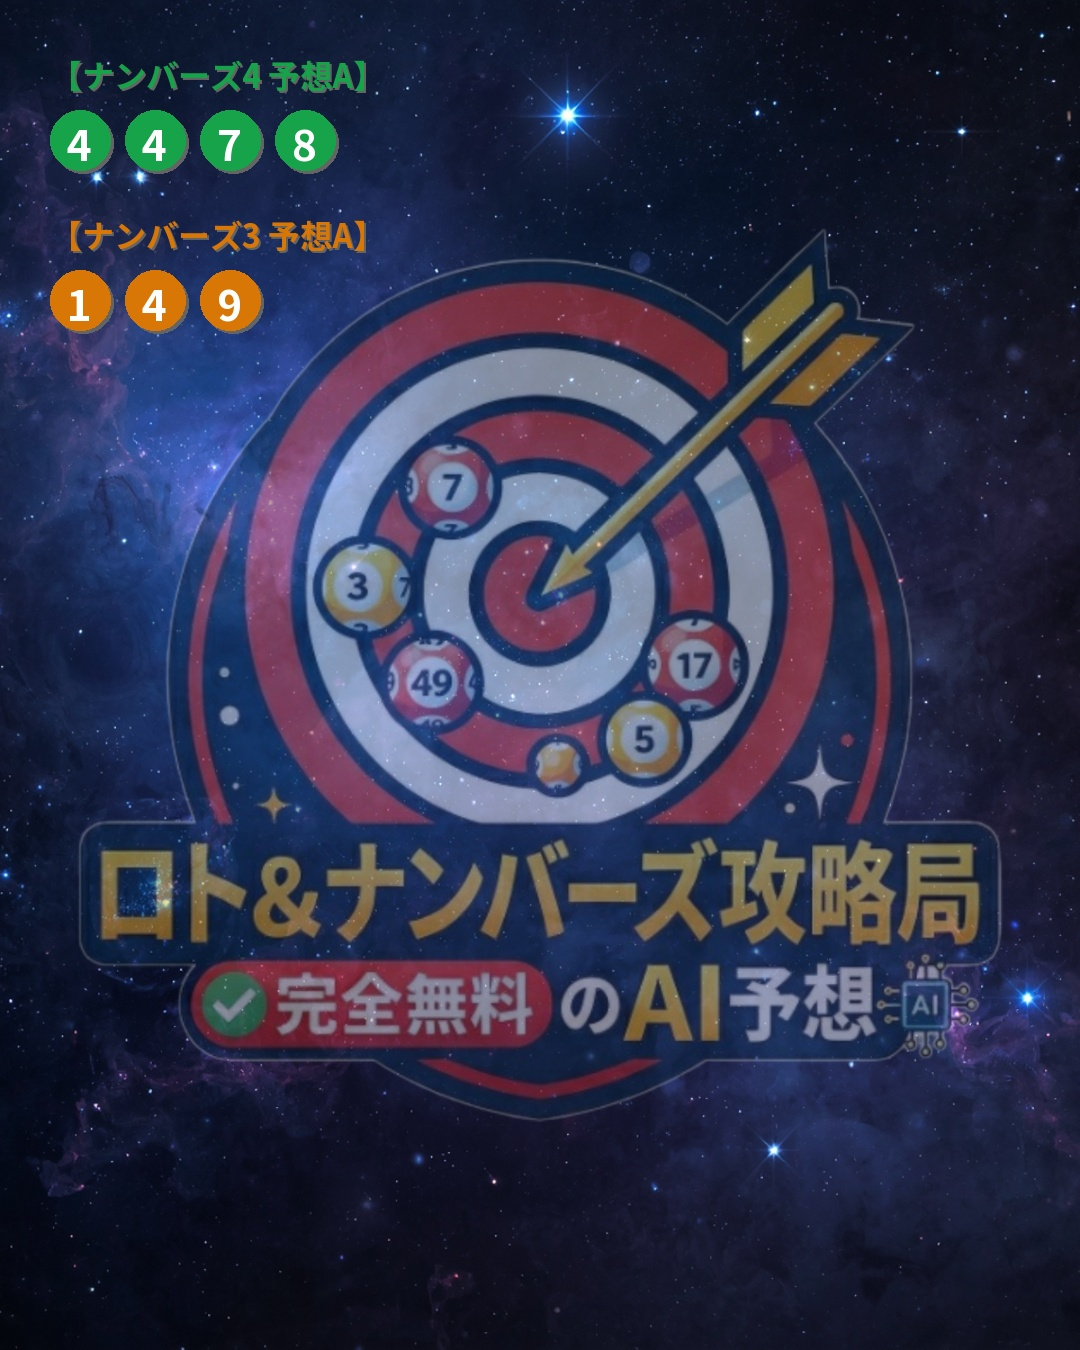
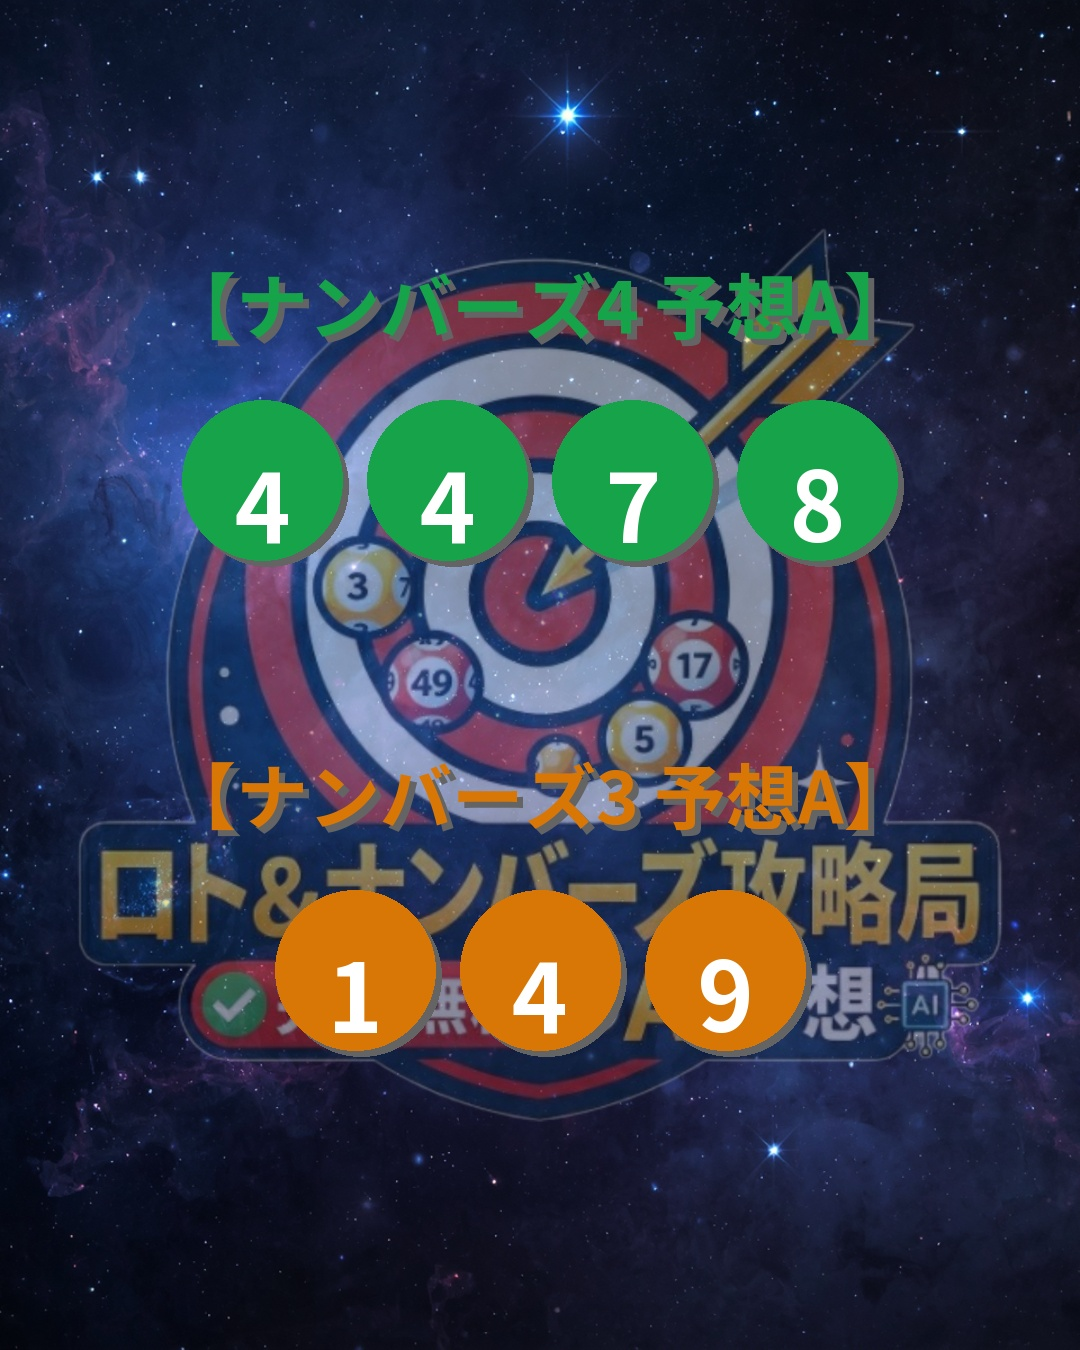
OK

Changed region(s): [[0.0306, 0.0311, 0.8556, 0.4356], [0.2444, 0.6533, 0.7639, 0.8089], [0.1833, 0.56, 0.825, 0.6222]]

diff --git a/update_loto6.py b/update_loto6.py
@@ -245,10 +245,12 @@ def upload_image_to_imgbb(image_path):
     # =========================================================
 
 def create_result_image(loto6_nums, carryover_info, base_image_path, output_image_path):
-    """ロト6専用：ボール風デザイン＆シャドウ付きで画像を描画する職人"""
-    print("🎨 ロト6専用の予想画像を生成中...")
+    """ロト6専用：1080x1350の大画面に合わせて、文字を大きく中央揃えで描画する職人"""
+    print("🎨 ロト6専用の予想画像を生成中（中央揃え・大画面版）...")
     try:
+        # 1. ベース（背景）となる画像を開く
         img = Image.open(base_image_path)
+        W, H = img.size # 画像の実際の幅と高さを取得 (1080x1350を想定)
     except FileNotFoundError:
         print(f"❌ 背景画像({base_image_path})が見つかりません！")
         return False
@@ -258,56 +260,87 @@ def create_result_image(loto6_nums, carryover_info, base_image_path, output_imag
     # 日本語フォントの準備
     font_path = "NotoSansJP-Bold.ttf"
     if not os.path.exists(font_path):
-        font_url = "https://raw.githubusercontent.com/infofintech/typography/main/NotoSansJP-Bold.ttf"
+        font_url = "https://github.com/google/fonts/raw/main/ofl/notosansjp/static/NotoSansJP-Bold.ttf"
         urllib.request.urlretrieve(font_url, font_path)
 
-    # フォントサイズの設定（ロト6は6個なので、ロト7より少し大きくできます）
-    font_title = ImageFont.truetype(font_path, 34)
-    font_num = ImageFont.truetype(font_path, 38)
-    font_carry = ImageFont.truetype(font_path, 30)
-
-    # --- デザイン設定 ---
-    start_x = 50        
-    current_y = 60      
+    # --- デザイン設定 (1080x1350用に最適化) ---
     shadow_color = (100, 100, 100)  # 影（グレー）
     white = (255, 255, 255)         # 文字（白）
-    
-    # ロト6のテーマカラー設定
     title_color = (30, 58, 138)  # タイトルは濃いネイビー
     ball_color = (37, 99, 235)   # ボールは鮮やかなブルー（ロト6風）
     carry_color = (220, 38, 38)  # キャリーオーバーは目立つ赤！
+
+    # ボールの設定 (1080pxの幅に6個収まるように、ロト7より大きく！)
+    ball_dia = 140  # ボールの直径
+    ball_space = 25 # ボール間のスペース
+    shadow_offset = 6 # 影のズレ量
+
+    # フォントサイズの設定
+    font_title = ImageFont.truetype(font_path, 90)
+    font_num = ImageFont.truetype(font_path, 85) # ボールが大きいので数字もサイズアップ
+    font_carry = ImageFont.truetype(font_path, 65)
+
+    # 全体の上下バランスを見て、描画開始Y位置を決める
+    current_y = 400 
 
     # ------------------------------------------------
     # 描画1：タイトル
     # ------------------------------------------------
     title = "【ロト6 最新AI予想 A】"
-    draw.text((start_x + 2, current_y + 2), title, font=font_title, fill=shadow_color)
-    draw.text((start_x, current_y), title, font=font_title, fill=title_color)
     
+    # タイトルの中央位置を計算
+    left, top, right, bottom = draw.textbbox((0, 0), title, font=font_title)
+    text_w = right - left
+    title_x = (W - text_w) / 2
+    
+    # タイトルの影と本体を描画
+    draw.text((title_x + shadow_offset, current_y + shadow_offset), title, font=font_title, fill=shadow_color)
+    draw.text((title_x, current_y), title, font=font_title, fill=title_color)
+    
+    current_y += (bottom - top) + 100 # ボール列との間隔
+
     # ------------------------------------------------
     # 描画2：予想番号のボール（6個）
     # ------------------------------------------------
-    current_y += 65 
-    ball_x = start_x
+    # ★ボール列全体の中央位置を計算
+    total_ball_w = (ball_dia * 6) + (ball_space * 5)
+    ball_x = (W - total_ball_w) / 2 # 列の開始X位置
+
     for digit in loto6_nums:
-        # ボールの影（60x60の円）
-        draw.ellipse([ball_x + 3, current_y + 3, ball_x + 60 + 3, current_y + 60 + 3], fill=shadow_color)
-        # ボール本体
-        draw.ellipse([ball_x, current_y, ball_x + 60, current_y + 60], fill=ball_color)
-        # 数字（ボールの真ん中に来るように微調整）
-        draw.text((ball_x + 10, current_y + 5), digit, font=font_num, fill=white)
-        ball_x += 70 # 次のボールへの間隔（ロト7より少し広め）
+        # ボールの影を描画
+        draw.ellipse([ball_x + shadow_offset, current_y + shadow_offset, ball_x + ball_dia + shadow_offset, current_y + ball_dia + shadow_offset], fill=shadow_color)
+        # ボール本体を描画
+        draw.ellipse([ball_x, current_y, ball_x + ball_dia, current_y + ball_dia], fill=ball_color)
+        
+        # ★数字がボールのド真ん中に来るように計算
+        left, top, right, bottom = draw.textbbox((0, 0), digit, font=font_num)
+        num_w = right - left
+        num_h = bottom - top
+        num_x = ball_x + (ball_dia - num_w) / 2
+        num_y = current_y + (ball_dia - num_h) / 2 - 12 # 縦位置の微調整
+
+        # 数字をボールの中心に描画
+        draw.text((num_x, num_y), digit, font=font_num, fill=white)
+        ball_x += ball_dia + ball_space
 
     # ------------------------------------------------
     # 描画3：キャリーオーバー（発生時のみ出現）
     # ------------------------------------------------
     if carryover_info:
-        current_y += 90 # ボールの下に移動
-        draw.text((start_x + 2, current_y + 2), carryover_info, font=font_carry, fill=shadow_color)
-        draw.text((start_x, current_y), carryover_info, font=font_carry, fill=carry_color)
+        current_y += ball_dia + 150 # ボールの下に移動
+        
+        # キャリーオーバー文字の中央位置を計算
+        left, top, right, bottom = draw.textbbox((0, 0), carryover_info, font=font_carry)
+        carry_w = right - left
+        carry_x = (W - carry_w) / 2
+        
+        # 影と本体を描画
+        draw.text((carry_x + shadow_offset, current_y + shadow_offset), carryover_info, font=font_carry, fill=shadow_color)
+        draw.text((carry_x, current_y), carryover_info, font=font_carry, fill=carry_color)
 
+    # --- 共通処理 ---
     # 完成した画像を保存（Instagram対応のためJPEGに変換して保存！）
-    img = img.convert("RGB") # 背景が透過PNGだった場合のエラーを防止
+    img = img.convert("RGB") 
     img.save(output_image_path, "JPEG", quality=95)
     print(f"✅ 画像の生成が完了しました！: {output_image_path}")
     return True
@@ -976,6 +1009,7 @@ def build_html():
     if send_flag and msg:
         # post_to_x(msg)
         post_to_line(msg)
+        post_to_threads(msg)
         print(f"✅ ロト6の配信条件に合致したため実行しました。")
 
         # ----------------------------------------------------

diff --git a/update_loto7.py b/update_loto7.py
@@ -223,10 +223,12 @@ def upload_image_to_imgbb(image_path):
     # =========================================================
 
 def create_result_image(loto7_nums, carryover_info, base_image_path, output_image_path):
-    """ロト7専用：ボール風デザイン＆シャドウ付きで画像を描画する職人"""
-    print("🎨 ロト7専用の予想画像を生成中...")
+    """ロト7専用：1080x1350の大画面に合わせて、文字を大きく中央揃えで描画する職人"""
+    print("🎨 ロト7専用の予想画像を生成中（中央揃え・大画面版）...")
     try:
+        # 1. ベース（背景）となる画像を開く
         img = Image.open(base_image_path)
+        W, H = img.size # 画像の実際の幅と高さを取得 (1080x1350を想定)
     except FileNotFoundError:
         print(f"❌ 背景画像({base_image_path})が見つかりません！")
         return False
@@ -236,56 +238,87 @@ def create_result_image(loto7_nums, carryover_info, base_image_path, output_imag
     # 日本語フォントの準備
     font_path = "NotoSansJP-Bold.ttf"
     if not os.path.exists(font_path):
-        font_url = "https://raw.githubusercontent.com/infofintech/typography/main/NotoSansJP-Bold.ttf"
+        font_url = "https://github.com/google/fonts/raw/main/ofl/notosansjp/static/NotoSansJP-Bold.ttf"
         urllib.request.urlretrieve(font_url, font_path)
 
-    # フォントサイズの設定（タイトル、数字、キャリーオーバー用）
-    font_title = ImageFont.truetype(font_path, 34)
-    font_num = ImageFont.truetype(font_path, 34) # 7個入るように少し調整
-    font_carry = ImageFont.truetype(font_path, 30)
-
-    # --- デザイン設定 ---
-    start_x = 50        
-    current_y = 60      
+    # --- デザイン設定 (1080x1350用に最適化) ---
     shadow_color = (100, 100, 100)  # 影（グレー）
     white = (255, 255, 255)         # 文字（白）
-    
-    # ロト7のテーマカラー設定
-    title_color = (30, 58, 138)  # タイトルは濃いネイビー（HTMLサイト風）
+    title_color = (30, 58, 138)  # タイトルは濃いネイビー
     ball_color = (217, 119, 6)   # ボールはゴールド/オレンジ
     carry_color = (220, 38, 38)  # キャリーオーバーは目立つ赤！
+
+    # ボールの設定 (1080pxの幅に7個収まる最大サイズ)
+    ball_dia = 120  # ボールの直径
+    ball_space = 20 # ボール間のスペース
+    shadow_offset = 6 # 影のズレ量
+
+    # フォントサイズの設定
+    font_title = ImageFont.truetype(font_path, 90)
+    font_num = ImageFont.truetype(font_path, 75)
+    font_carry = ImageFont.truetype(font_path, 65)
+
+    # 全体の上下バランスを見て、描画開始Y位置を決める
+    current_y = 400 
 
     # ------------------------------------------------
     # 描画1：タイトル
     # ------------------------------------------------
     title = "【ロト7 最新AI予想 A】"
-    draw.text((start_x + 2, current_y + 2), title, font=font_title, fill=shadow_color)
-    draw.text((start_x, current_y), title, font=font_title, fill=title_color)
     
+    # タイトルの中央位置を計算
+    left, top, right, bottom = draw.textbbox((0, 0), title, font=font_title)
+    text_w = right - left
+    title_x = (W - text_w) / 2
+    
+    # タイトルの影と本体を描画
+    draw.text((title_x + shadow_offset, current_y + shadow_offset), title, font=font_title, fill=shadow_color)
+    draw.text((title_x, current_y), title, font=font_title, fill=title_color)
+    
+    current_y += (bottom - top) + 100 # ボール列との間隔
+
     # ------------------------------------------------
     # 描画2：予想番号のボール（7個）
     # ------------------------------------------------
-    current_y += 65 
-    ball_x = start_x
+    # ★ボール列全体の中央位置を計算
+    total_ball_w = (ball_dia * 7) + (ball_space * 6)
+    ball_x = (W - total_ball_w) / 2 # 列の開始X位置
+
     for digit in loto7_nums:
-        # ボールの影（55x55の円）
-        draw.ellipse([ball_x + 3, current_y + 3, ball_x + 55 + 3, current_y + 55 + 3], fill=shadow_color)
-        # ボール本体
-        draw.ellipse([ball_x, current_y, ball_x + 55, current_y + 55], fill=ball_color)
-        # 数字（ボールの真ん中に来るように微調整）
-        draw.text((ball_x + 10, current_y + 5), digit, font=font_num, fill=white)
-        ball_x += 65 # 次のボールへの間隔
+        # ボールの影を描画
+        draw.ellipse([ball_x + shadow_offset, current_y + shadow_offset, ball_x + ball_dia + shadow_offset, current_y + ball_dia + shadow_offset], fill=shadow_color)
+        # ボール本体を描画
+        draw.ellipse([ball_x, current_y, ball_x + ball_dia, current_y + ball_dia], fill=ball_color)
+        
+        # ★数字がボールのド真ん中に来るように計算
+        left, top, right, bottom = draw.textbbox((0, 0), digit, font=font_num)
+        num_w = right - left
+        num_h = bottom - top
+        num_x = ball_x + (ball_dia - num_w) / 2
+        num_y = current_y + (ball_dia - num_h) / 2 - 10 # 縦位置の微調整
+
+        # 数字をボールの中心に描画
+        draw.text((num_x, num_y), digit, font=font_num, fill=white)
+        ball_x += ball_dia + ball_space
 
     # ------------------------------------------------
     # 描画3：キャリーオーバー（発生時のみ出現）
     # ------------------------------------------------
     if carryover_info:
-        current_y += 90 # ボールの下に移動
-        draw.text((start_x + 2, current_y + 2), carryover_info, font=font_carry, fill=shadow_color)
-        draw.text((start_x, current_y), carryover_info, font=font_carry, fill=carry_color)
+        current_y += ball_dia + 150 # ボールの下に移動
+        
+        # キャリーオーバー文字の中央位置を計算
+        left, top, right, bottom = draw.textbbox((0, 0), carryover_info, font=font_carry)
+        carry_w = right - left
+        carry_x = (W - carry_w) / 2
+        
+        # 影と本体を描画
+        draw.text((carry_x + shadow_offset, current_y + shadow_offset), carryover_info, font=font_carry, fill=shadow_color)
+        draw.text((carry_x, current_y), carryover_info, font=font_carry, fill=carry_color)
 
+    # --- 共通処理 ---
     # 完成した画像を保存（Instagram対応のためJPEGに変換して保存！）
-    img = img.convert("RGB") # 背景が透過PNGだった場合のエラーを防止
+    img = img.convert("RGB") 
     img.save(output_image_path, "JPEG", quality=95)
     print(f"✅ 画像の生成が完了しました！: {output_image_path}")
     return True
@@ -938,6 +971,7 @@ def build_html():
     if send_flag and msg:
         # post_to_x(msg)
         post_to_line(msg)
+        post_to_threads(msg)
         print(f"✅ ロト7の配信条件に合致したため実行しました。")
 
         # ----------------------------------------------------

diff --git a/update_numbers.py b/update_numbers.py
@@ -225,7 +225,7 @@ def create_result_image(n4_text, n3_text, base_image_path, output_image_path):
     shadow_offset = 6 # 影のズレ量
 
     # フォントサイズの設定（見やすく大きく！）
-    font_title = ImageFont.truetype(font_path, 72)
+    font_title = ImageFont.truetype(font_path, 90)
     font_num = ImageFont.truetype(font_path, 95)
 
     # 全体の上下バランスを見て、描画開始Y位置を決める
@@ -897,6 +897,7 @@ def build_html():
     if send_flag and msg:
         # post_to_x(msg)
         post_to_line(msg)
+        post_to_threads(msg)
         print(f"✅ 条件に合致したため配信を実行しました。")
         # ----------------------------------------------------
         # ★ ここからInstagramの自動投稿処理を追加！
